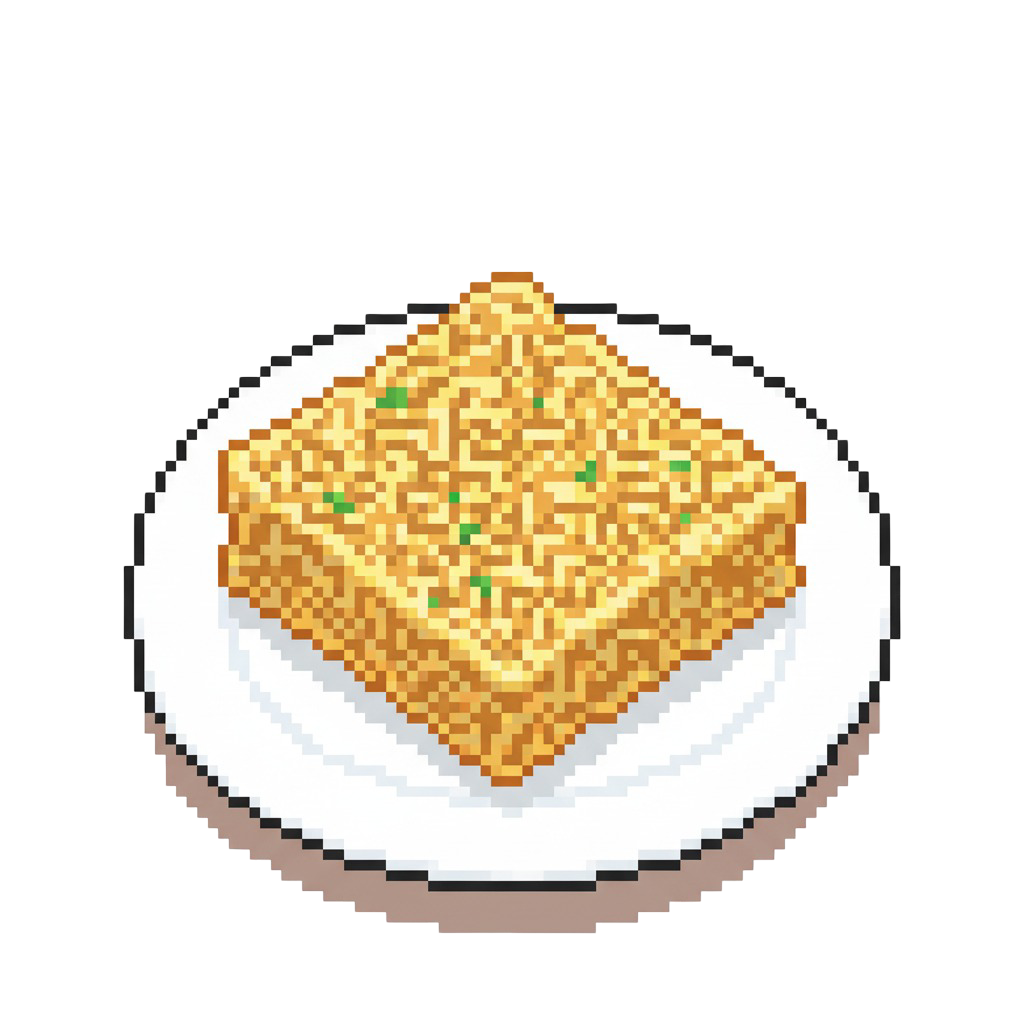
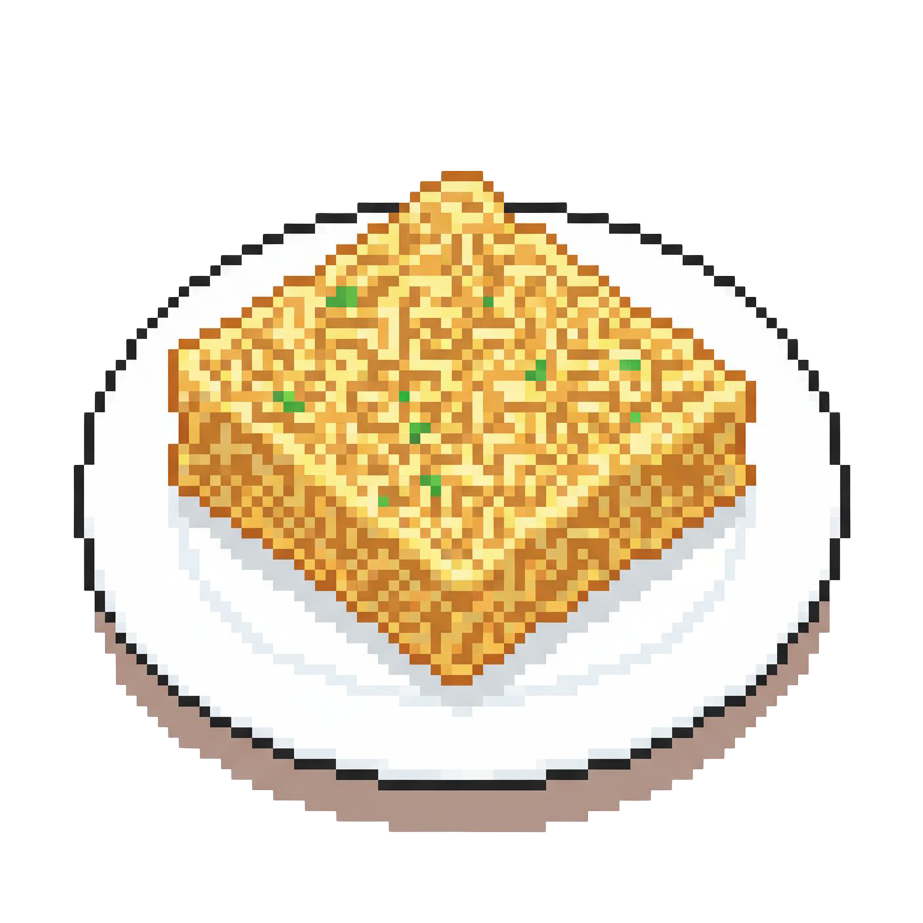
feat(main): ubah menu dan edit gambar mie

diff --git a/script.js b/script.js
@@ -272,28 +272,28 @@ function next2() {
 // variabel object informasi mie
 const noodles = [
   {
-    title: "mie kuah biasa",
-    img: "img/noodle1.png",
+    title: "mie rebus biasa",
+    img: "img/gambar mie no bg/mie1.png",
     detail: "waktu masak 3 menit. cocok buat kamu yang suka mie kuah.",
     time: 180,
   },
   {
-    title: "mie setengah matang",
-    img: "img/noodle2mck.png",
-    detail: "waktu masak 1 menit. boleh dicoba kalau kamu anti mainstream.",
-    time: 60,
-  },
-  {
-    title: "mie benyek",
-    img: "img/noodle1.png",
-    detail: "waktu masak 5 menit. cocok kalau kamu orangnya aneh.",
-    time: 300,
-  },
-  {
-    title: "mie goyeng",
-    img: "img/noodle3mck.png",
+    title: "mie goreng biasa",
+    img: "img/gambar mie no bg/mie2.png",
     detail: "waktu masak 3 menit. cocok kalau kamu suka yang kering.",
     time: 180,
+  },
+  {
+    title: "mie mentah",
+    img: "img/gambar mie no bg/mie3.png",
+    detail: "waktu masak 0 menit. untuk yang suka mie mentah.",
+    time: 0,
+  },
+  {
+    title: "mie setengah matang",
+    img: "img/gambar mie no bg/mie4.png",
+    detail: "waktu masak 1 menit. boleh dicoba kalau kamu anti mainstream.",
+    time: 60,
   },
 ];
 // variabel mie ke berapa
